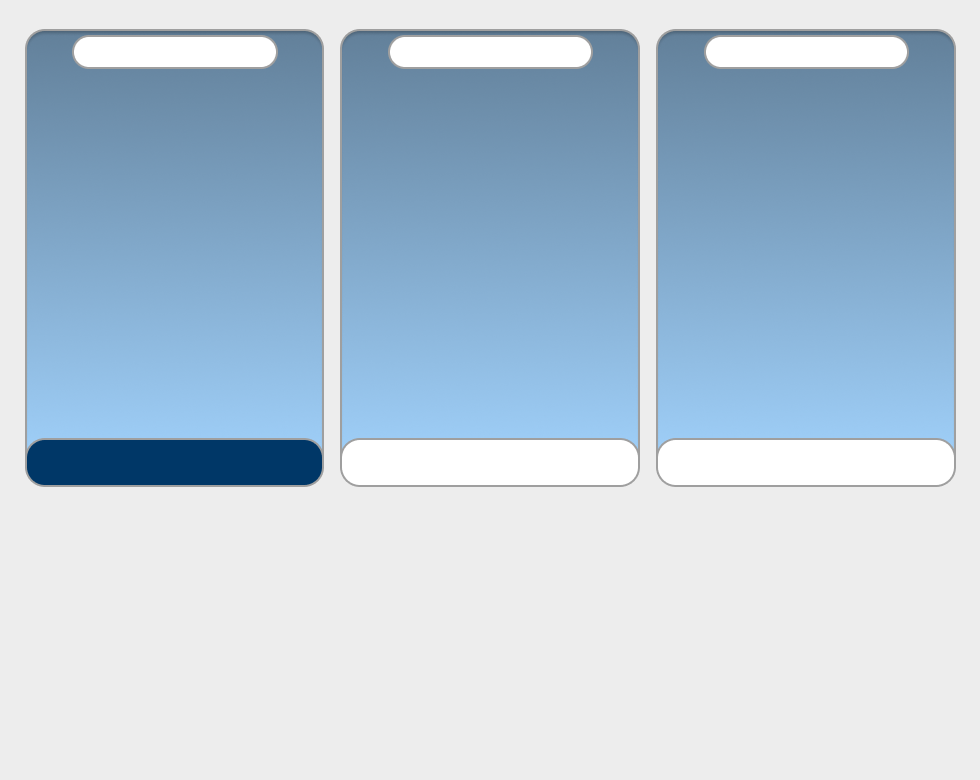
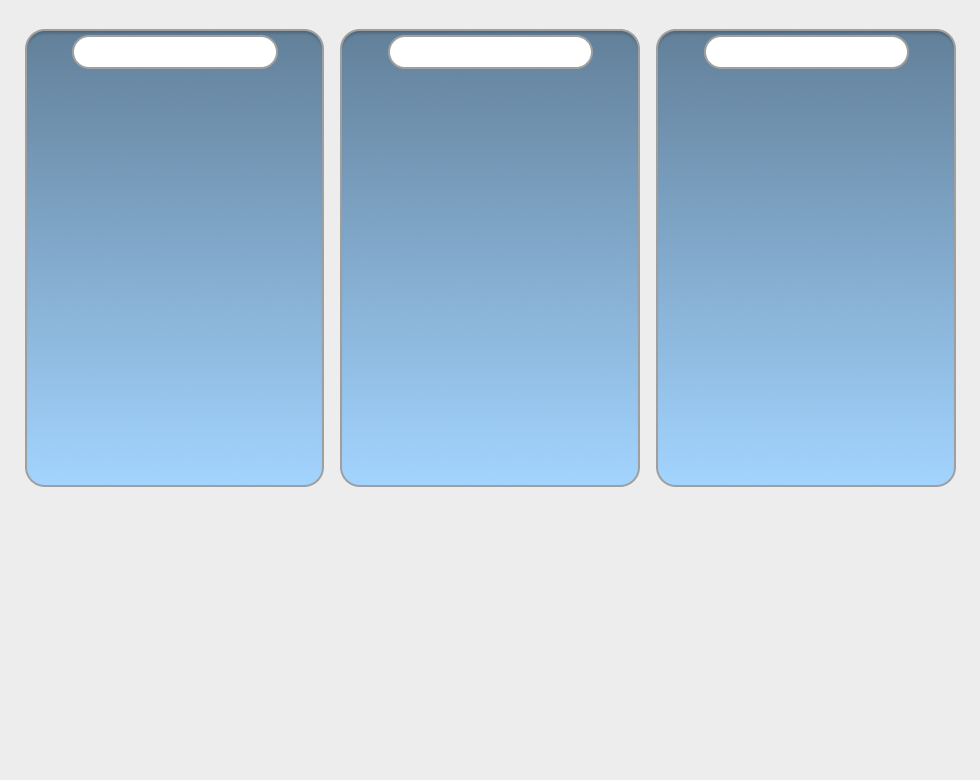
update: 레디할 때 ui, 방장 안 겹치도록, 레디하면 방 못 바꾸도록 수정 #29

Changed region(s): [[0.0306, 0.5538, 0.9796, 0.6462]]

diff --git a/KarKartrider/KarKartrider/RoomMode.cpp b/KarKartrider/KarKartrider/RoomMode.cpp
@@ -14,6 +14,7 @@ RoomMode::RoomMode()
 	road2_tex = loadTexture("asset/room/road_2.png");
 	road2_hovered_tex = loadTexture("asset/room/road_2_hovered.png");
 	room_tex = loadTexture("asset/room/room.png");
+	player_ready_tex = loadTexture("asset/room/ready_player.png");
 }
 
 RoomMode::~RoomMode()
@@ -52,13 +53,18 @@ void RoomMode::mouseClick(int button, int state, int x, int y)
 {
 	if (state == GLUT_UP)
 	{
-		if (isRoad1Hovered)
+		if(!g_players[g_myid].isReady)
 		{
-			networkmgr.SendEnterRoomPacket(STRAIGHT);
-		}
-		else if (isRoad2Hovered)
-		{
-			networkmgr.SendEnterRoomPacket(RECTANGLE);
+			if (isRoad1Hovered)
+			{
+				if (g_players[g_myid].select_map != STRAIGHT)
+					networkmgr.SendEnterRoomPacket(STRAIGHT);
+			}
+			else if (isRoad2Hovered)
+			{
+				if (g_players[g_myid].select_map != RECTANGLE)
+					networkmgr.SendEnterRoomPacket(RECTANGLE);
+			}
 		}
 
 		if (isReadyHovered)
@@ -133,7 +139,8 @@ void RoomMode::specialKeyUp(int key, int x, int y)
 
 void RoomMode::draw_model()
 {
-	RefreshSlotData();
+	RefreshSlotData(); // 데이터 최신화
+
 	glUseProgram(0);
 	glDisable(GL_LIGHTING);
 	glDisable(GL_DEPTH_TEST);
@@ -166,7 +173,6 @@ void RoomMode::draw_model()
 	glTexCoord2f(1.0f, 0.0f); glVertex3f(1.0f, -1.0f, 0.0f);
 	glEnd();
 
-\
 	// -----------------------------------------------------------
 	// 플레이어 렌더링 Loop
 	// -----------------------------------------------------------
@@ -179,7 +185,9 @@ void RoomMode::draw_model()
 
 	for (int i = 0; i < 3; ++i)
 	{
-		if (!m_slots[i].isActive) continue;
+		int pid = m_slots[i];
+
+		if (pid < 0 || pid >= MAX_USER) continue;
 
 		glEnable(GL_TEXTURE_2D);
 		glBindTexture(GL_TEXTURE_2D, player_tex);
@@ -197,21 +205,50 @@ void RoomMode::draw_model()
 		glDisable(GL_TEXTURE_2D);
 		glColor3f(0.0f, 0.0f, 0.0f);
 
-		int nameLen = strlen(m_slots[i].name);
-		if (nameLen == 0) continue;
-		float textX = cX - (nameLen * 0.015f);
-		float textY = pY + pHH-0.1f;
+		int nameLen = strlen(g_players[pid].m_name);
+		if (nameLen > 0)
+		{
+			float textX = cX - (nameLen * 0.015f);
+			float textY = pY + pHH - 0.1f;
 
-		
-		glRasterPos2f(textX, textY);
-		for (int k = 0; k < nameLen; k++)
-			glutBitmapCharacter(GLUT_BITMAP_HELVETICA_18, m_slots[i].name[k]);
-		glRasterPos2f(textX + 0.002f, textY);
-		for (int k = 0; k < nameLen; k++)
-			glutBitmapCharacter(GLUT_BITMAP_HELVETICA_18, m_slots[i].name[k]);
-		glRasterPos2f(textX, textY + 0.002f);
-		for (int k = 0; k < nameLen; k++)
-			glutBitmapCharacter(GLUT_BITMAP_HELVETICA_18, m_slots[i].name[k]);
+			glRasterPos3f(textX, textY, 1.0f);
+
+			for (int k = 0; k < nameLen; k++)
+				glutBitmapCharacter(GLUT_BITMAP_TIMES_ROMAN_24, g_players[pid].m_name[k]);
+
+			glRasterPos3f(textX + 0.002f, textY, 1.0f);
+			for (int k = 0; k < nameLen; k++)
+				glutBitmapCharacter(GLUT_BITMAP_TIMES_ROMAN_24, g_players[pid].m_name[k]);
+
+			glRasterPos3f(textX, textY + 0.002f, 1.0f);
+			for (int k = 0; k < nameLen; k++)
+				glutBitmapCharacter(GLUT_BITMAP_TIMES_ROMAN_24, g_players[pid].m_name[k]);
+		}
+
+		if (g_players[pid].isReady)
+		{
+			glEnable(GL_TEXTURE_2D);
+			glBindTexture(GL_TEXTURE_2D, player_ready_tex);
+			glColor3f(1.0f, 1.0f, 1.0f);
+
+			float rW = 320.0f * px;
+			float rH = 143.0f * py;
+
+			float rHW = rW / 2.0f;
+			float rHH = rH / 2.0f;
+
+			float rX = cX;
+			float rY = (pY - pHH) + 0.2f;
+
+			glBegin(GL_QUADS);
+			glTexCoord2f(0.0f, 0.0f); glVertex3f(rX - rHW, rY - rHH, 1.0f);
+			glTexCoord2f(0.0f, 1.0f); glVertex3f(rX - rHW, rY + rHH, 1.0f);
+			glTexCoord2f(1.0f, 1.0f); glVertex3f(rX + rHW, rY + rHH, 1.0f);
+			glTexCoord2f(1.0f, 0.0f); glVertex3f(rX + rHW, rY - rHH, 1.0f);
+			glEnd();
+
+			glDisable(GL_TEXTURE_2D);
+		}
 	}
 
 	// -----------------------------------------------------------
@@ -286,8 +323,7 @@ void RoomMode::finish()
 void RoomMode::RefreshSlotData()
 {
 	for (int i = 0; i < 3; ++i) {
-		m_slots[i].isActive = false;
-		memset(m_slots[i].name, 0, NAME_SIZE);
+		m_slots[i] = -1;
 	}
 
 	int myRoomMapType = g_players[g_myid].select_map;
@@ -313,10 +349,7 @@ void RoomMode::RefreshSlotData()
 		}
 
 		if (slotIdx != -1) {
-			strncpy(m_slots[slotIdx].name, p.m_name, NAME_SIZE - 1);
-			m_slots[slotIdx].name[NAME_SIZE - 1] = '\0';
-			m_slots[slotIdx].isActive = true;
-
+			m_slots[slotIdx] = p.m_id;
 		}
 	}
 }

diff --git a/KarKartrider/KarKartrider/NetworkMgr.cpp b/KarKartrider/KarKartrider/NetworkMgr.cpp
@@ -180,9 +180,6 @@ void NetworkMgr::ProcessPacket(char* buf)
 		S2C_PlayerInfo_Packet* playerinfo_packet = reinterpret_cast<S2C_PlayerInfo_Packet*>(buf);
 		g_myid = playerinfo_packet->id;
 		g_players[g_myid].m_id = g_myid;
-		g_players[g_myid].isOnline = true;
-		g_players[g_myid].isRoomMaster = true;
-
 		SendEnterRoomPacket(STRAIGHT);
 	}
 	break;
@@ -211,10 +208,8 @@ void NetworkMgr::ProcessPacket(char* buf)
 	case S2C_LEAVE_ROOM:
 	{
 		S2C_LeaveRoom_Packet* packet = reinterpret_cast<S2C_LeaveRoom_Packet*>(buf);
-
-		std::cout << "유저가 방을 나갔습니다. ID: " << packet->id << std::endl;
-
 		g_players[packet->id].isOnline = false;
+		g_players[packet->id].isRoomMaster = false;
 
 		if (packet->id >= 0 && packet->id < MAX_USER)
 			g_players[packet->id].isReady = false;
@@ -224,12 +219,12 @@ void NetworkMgr::ProcessPacket(char* buf)
 	case S2C_CHANGE_ROOMMASTER:
 	{
 		S2C_Change_Master_Packet* packet = reinterpret_cast<S2C_Change_Master_Packet*>(buf);
-
-		g_players[packet->id].isRoomMaster = true;
-
+		int newMasterID = packet->id;
 		for (int i = 0; i < MAX_USER; ++i)
 		{
-			if (i != packet->id)
+			if (i == newMasterID)
+				g_players[i].isRoomMaster = true;
+			else
 				g_players[i].isRoomMaster = false;
 		}
 	}

diff --git a/KarKartrider/KarKartrider/RoomMode.h b/KarKartrider/KarKartrider/RoomMode.h
@@ -1,13 +1,6 @@
 #pragma once
 #include "Mode.h" 
 
-struct DisplaySlot {
-    char name[NAME_SIZE];
-    bool isActive;
-};
-
-
-
 class RoomMode : public Mode {
 public:
 
@@ -23,17 +16,13 @@ public:
     GLuint road2_tex;
     GLuint road2_hovered_tex;
     GLuint room_tex;
+    GLuint player_ready_tex;
 
     bool isRoad1Hovered = false;
     bool isRoad2Hovered = false;
     bool isReadyHovered = false;
 
-    struct DisplaySlot {
-        char name[NAME_SIZE];
-        bool isActive;
-    };
-
-    DisplaySlot m_slots[3];
+    int m_slots[3];
     //
 
     void init() override;
